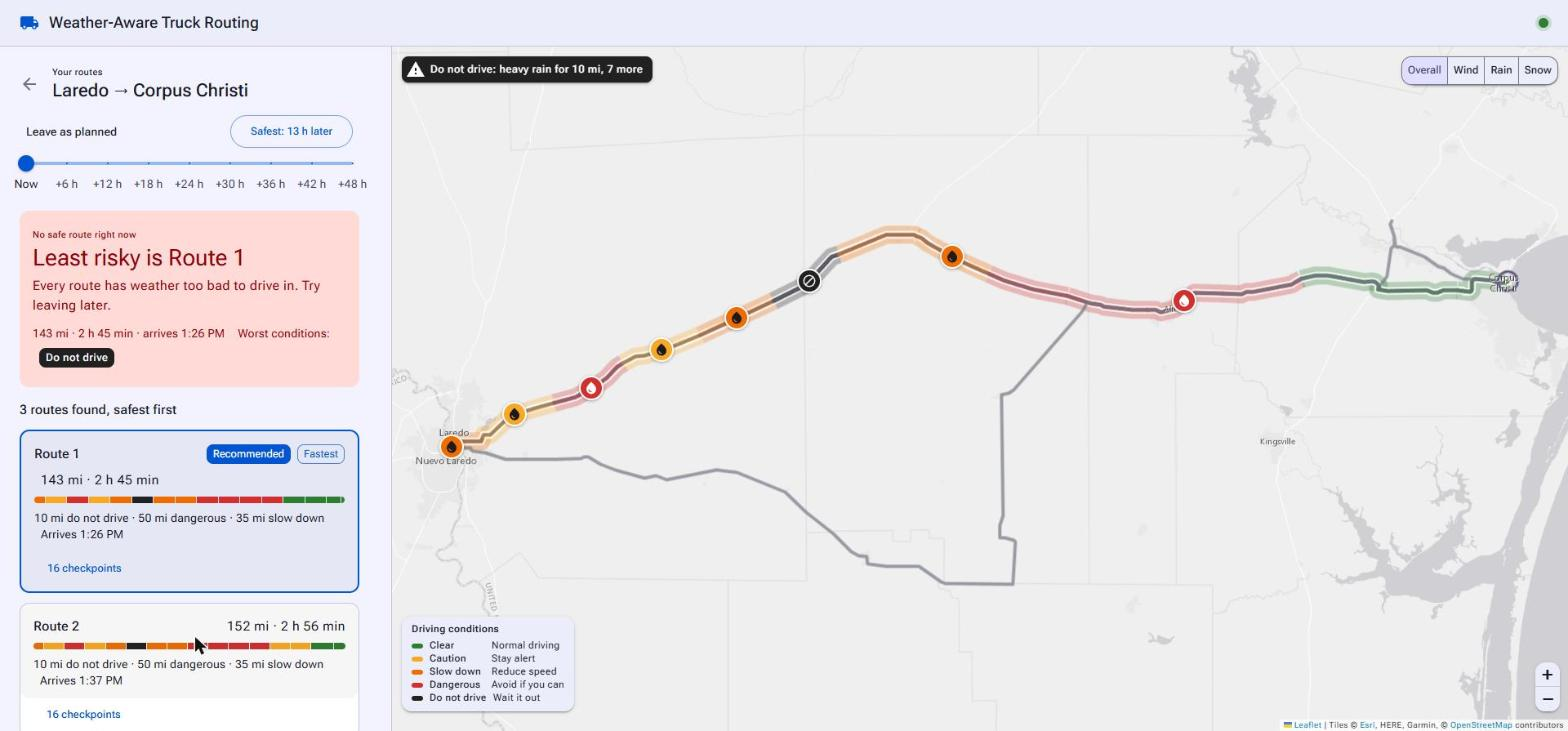
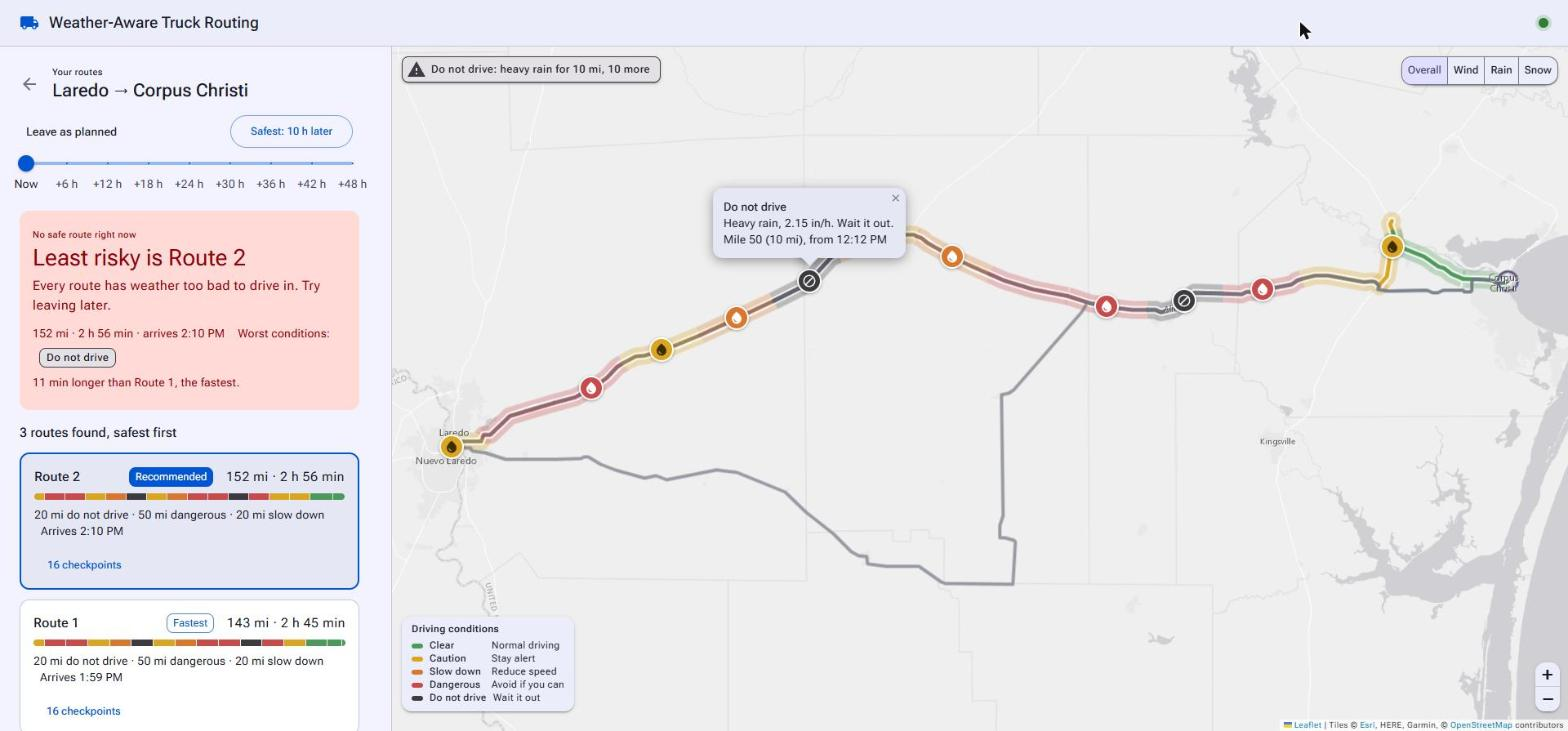
docs: retake the example screenshots with the calmer colours (#24)
Fresh screenshots of the live app in the calmer colours.

diff --git a/README.md b/README.md
@@ -20,15 +20,14 @@ Wind, Rain or Snow to see one condition, with its limits in real units.
 ## Example
 
 Laredo to Corpus Christi on 8 November 2026, during heavy rain in South Texas. Leaving
-now, every route runs into rain too heavy to drive in, so the app says so and suggests
-waiting:
+now, every route runs into rain too heavy to drive in. The app picks the least risky one,
+marks each wet stretch with how hard it's raining, and suggests waiting:
 
 ![Leaving now: no safe route](docs/do-not-drive.jpg)
 
-Leaving 13 hours later, the rain has passed. The app picks Route 3, which is clear all the
-way, over the faster Route 1, which still has a stretch of caution:
+Leaving 10 hours later, the rain has passed and the fastest route is clear all the way:
 
-![Leaving 13 hours later: clear all the way](docs/leave-later.jpg)
+![Leaving 10 hours later: clear all the way](docs/leave-later.jpg)
 
 Weather changes, so the same trip will look different on another day.
 
